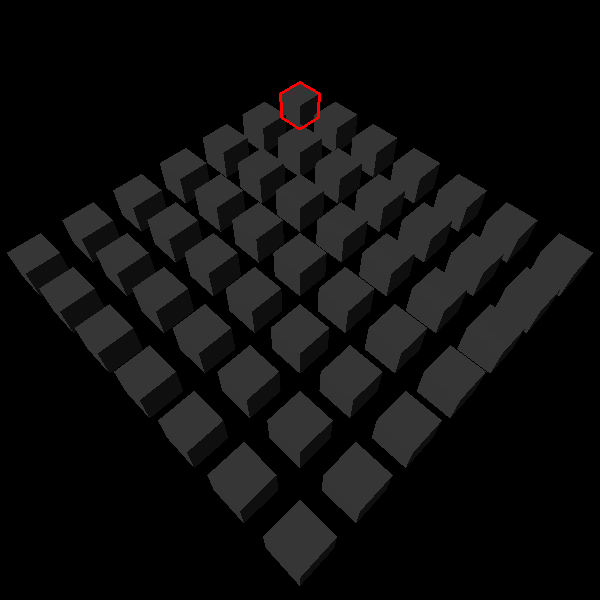
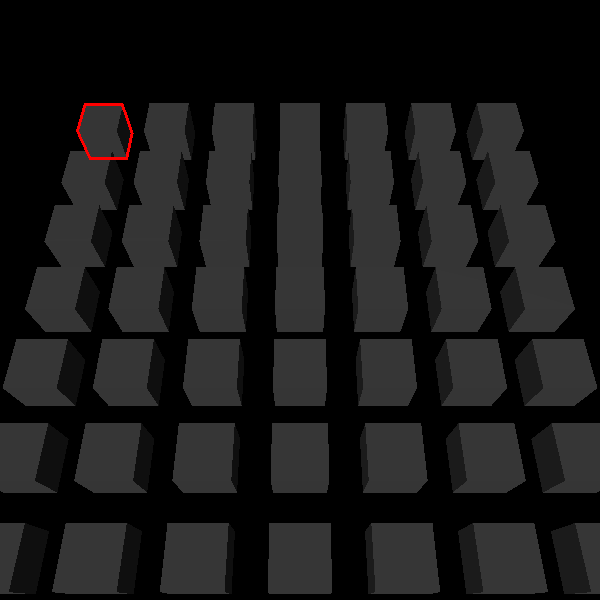
chore: update golden images

diff --git a/guest/rust/examples/assets/unity/src/server.rs b/guest/rust/examples/assets/unity/src/server.rs
@@ -1,28 +1,31 @@
 use ambient_api::{
     core::{
+        camera::concepts::{
+            PerspectiveInfiniteReverseCamera, PerspectiveInfiniteReverseCameraOptional,
+        },
         prefab::components::prefab_from_url,
         primitives::components::quad,
         rendering::components::cast_shadows,
-        transform::components::{local_to_world, scale},
+        transform::components::{local_to_world, lookat_target, scale},
     },
     prelude::*,
 };
 
-use packages::{
-    orbit_camera::concepts::{OrbitCamera, OrbitCameraOptional},
-    this::assets,
-};
+use packages::this::assets;
 
 #[main]
 pub fn main() {
-    OrbitCamera {
-        is_orbit_camera: (),
-        optional: OrbitCameraOptional {
-            lookat_target: Some(Vec3::Z * 1.5),
-            camera_distance: Some(10.0),
+    PerspectiveInfiniteReverseCamera {
+        optional: PerspectiveInfiniteReverseCameraOptional {
+            aspect_ratio_from_window: Some(entity::resources()),
+            translation: Some(Vec3::ONE * 5. + Vec3::Z * 1.5),
+            main_scene: Some(()),
             ..default()
         },
+        ..PerspectiveInfiniteReverseCamera::suggested()
     }
+    .make()
+    .with(lookat_target(), Vec3::Z * 1.5)
     .spawn();
 
     Entity::new()

diff --git a/guest/rust/examples/rendering/transparency/src/client.rs b/guest/rust/examples/rendering/transparency/src/client.rs
@@ -1,3 +1,5 @@
+use std::f32::consts::{FRAC_PI_4, FRAC_PI_6};
+
 use ambient_api::{
     core::{
         primitives::components::{cube, quad},
@@ -6,12 +8,20 @@ use ambient_api::{
     },
     prelude::*,
 };
-use packages::orbit_camera::concepts::OrbitCamera;
+use packages::orbit_camera::concepts::{OrbitCamera, OrbitCameraOptional};
 
 #[main]
 fn main() {
     // Camera
-    OrbitCamera::suggested().spawn();
+    OrbitCamera {
+        is_orbit_camera: (),
+        optional: OrbitCameraOptional {
+            camera_angle: Some(vec2(-FRAC_PI_4, FRAC_PI_6)),
+            camera_distance: Some(5.),
+            ..default()
+        },
+    }
+    .spawn();
 
     Entity::new()
         .with(quad(), ())

diff --git a/guest/rust/examples/rendering/decals/src/server.rs b/guest/rust/examples/rendering/decals/src/server.rs
@@ -6,14 +6,22 @@ use ambient_api::{
     },
     prelude::*,
 };
-use packages::orbit_camera::concepts::OrbitCamera;
+use packages::orbit_camera::concepts::{OrbitCamera, OrbitCameraOptional};
 
 use core::f32::consts::PI;
 
 #[main]
 pub fn main() {
     // Camera.
-    OrbitCamera::suggested().spawn();
+    OrbitCamera {
+        is_orbit_camera: (),
+        optional: OrbitCameraOptional {
+            camera_angle: Some(vec2(135f32.to_radians(), 45f32.to_radians())),
+            camera_distance: Some(2.),
+            ..default()
+        },
+    }
+    .spawn();
 
     // Scene geometry.
     Entity::new()

diff --git a/guest/rust/examples/basics/skinmesh/src/client.rs b/guest/rust/examples/basics/skinmesh/src/client.rs
@@ -25,7 +25,7 @@ pub async fn main() {
         is_orbit_camera: (),
         optional: OrbitCameraOptional {
             lookat_target: Some(vec3(0., 0., 1.)),
-            camera_angle: Some(vec2(-180f32.to_radians(), 45f32.to_radians())),
+            camera_angle: Some(vec2(135f32.to_radians(), 45f32.to_radians())),
             camera_distance: Some(3.0),
         },
     }

diff --git a/guest/rust/examples/assets/material_overriding/src/server.rs b/guest/rust/examples/assets/material_overriding/src/server.rs
@@ -19,7 +19,8 @@ pub async fn main() {
     OrbitCamera {
         is_orbit_camera: (),
         optional: OrbitCameraOptional {
-            camera_distance: Some(2.0),
+            camera_angle: Some(vec2(135f32.to_radians(), 20f32.to_radians())),
+            camera_distance: Some(3.),
             ..default()
         },
     }

diff --git a/guest/rust/examples/basics/primitives/src/server.rs b/guest/rust/examples/basics/primitives/src/server.rs
@@ -16,6 +16,7 @@ pub fn main() {
     OrbitCamera {
         is_orbit_camera: (),
         optional: OrbitCameraOptional {
+            camera_angle: Some(vec2(135f32.to_radians(), 35f32.to_radians())),
             camera_distance: Some(10.),
             ..default()
         },

diff --git a/guest/rust/examples/rendering/fog/src/client.rs b/guest/rust/examples/rendering/fog/src/client.rs
@@ -18,6 +18,7 @@ fn main() {
     OrbitCamera {
         is_orbit_camera: (),
         optional: OrbitCameraOptional {
+            camera_angle: Some(vec2(0.0, 15f32.to_radians())),
             lookat_target: Some(vec3(0., 0., 2.)),
             ..default()
         },
